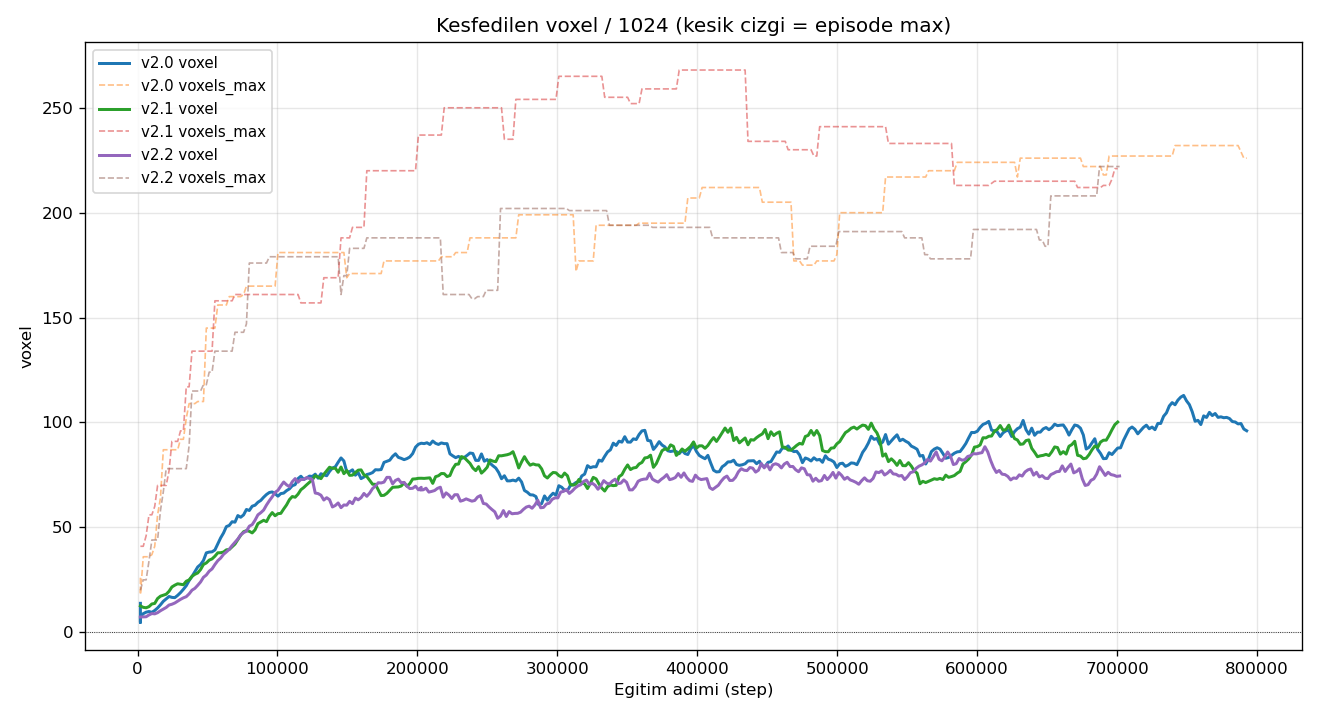
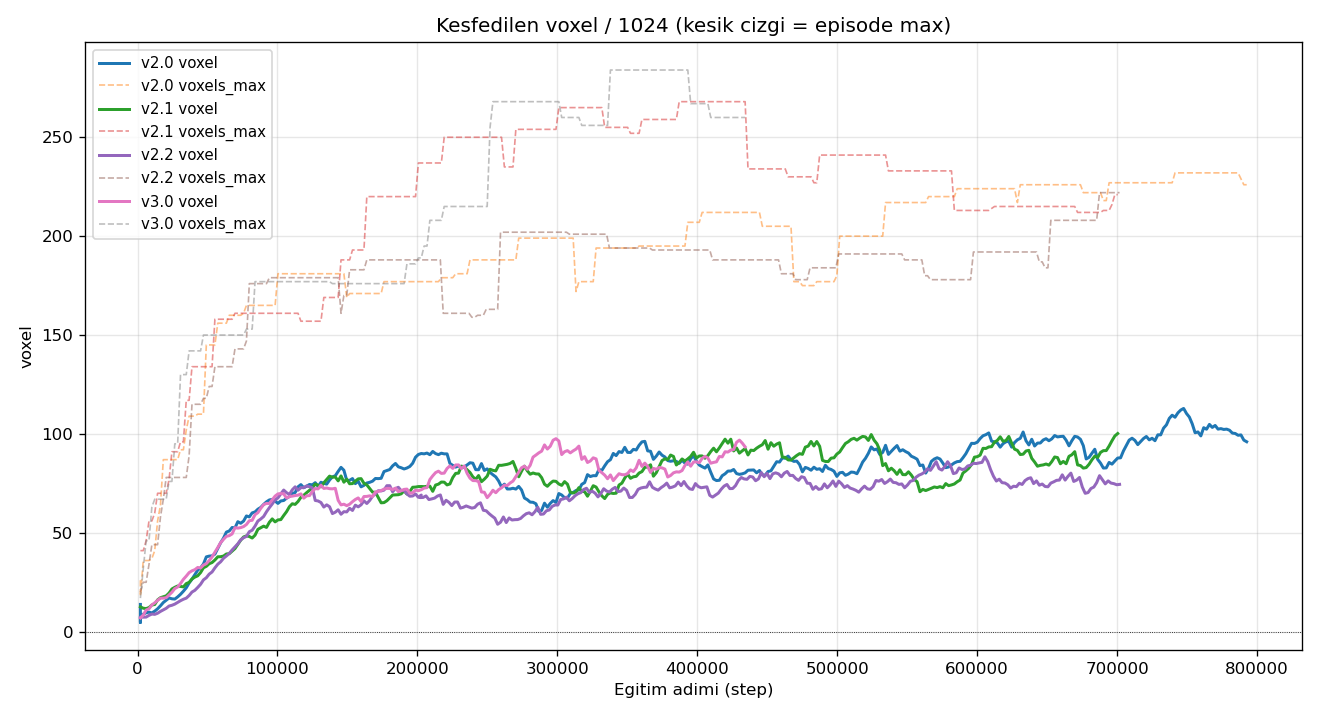
auto(operator): v3.0 400k milestone — reward 99.8, peak 102.5@430k
current_step 434176 (+59k), ep_len_mean 655/2500, voxels_max 260,
rooms_max 6, action_std 0.83, expl_var 0.95, fps 40. Saglikli, mudahale yok.

diff --git a/docs/REPORT.md b/docs/REPORT.md
@@ -9,6 +9,7 @@ Otomatik uretildi (`scripts/report.py`). Operator agent gunceller.
 | v2.0 | 792,576 | +102.8 | +121.6 | 232/1024 | 6/6 |
 | v2.1 | 700,416 | +144.2 | +144.2 | 268/1024 | 6/6 |
 | v2.2 | 701,760 | +87.1 | +105.3 | 222/1024 | 6/6 |
+| v3.0 | 434,176 | +99.8 | +102.5 | 284/1024 | 6/6 |
 
 ## Versiyon / Mudahale Gunlugu
 
